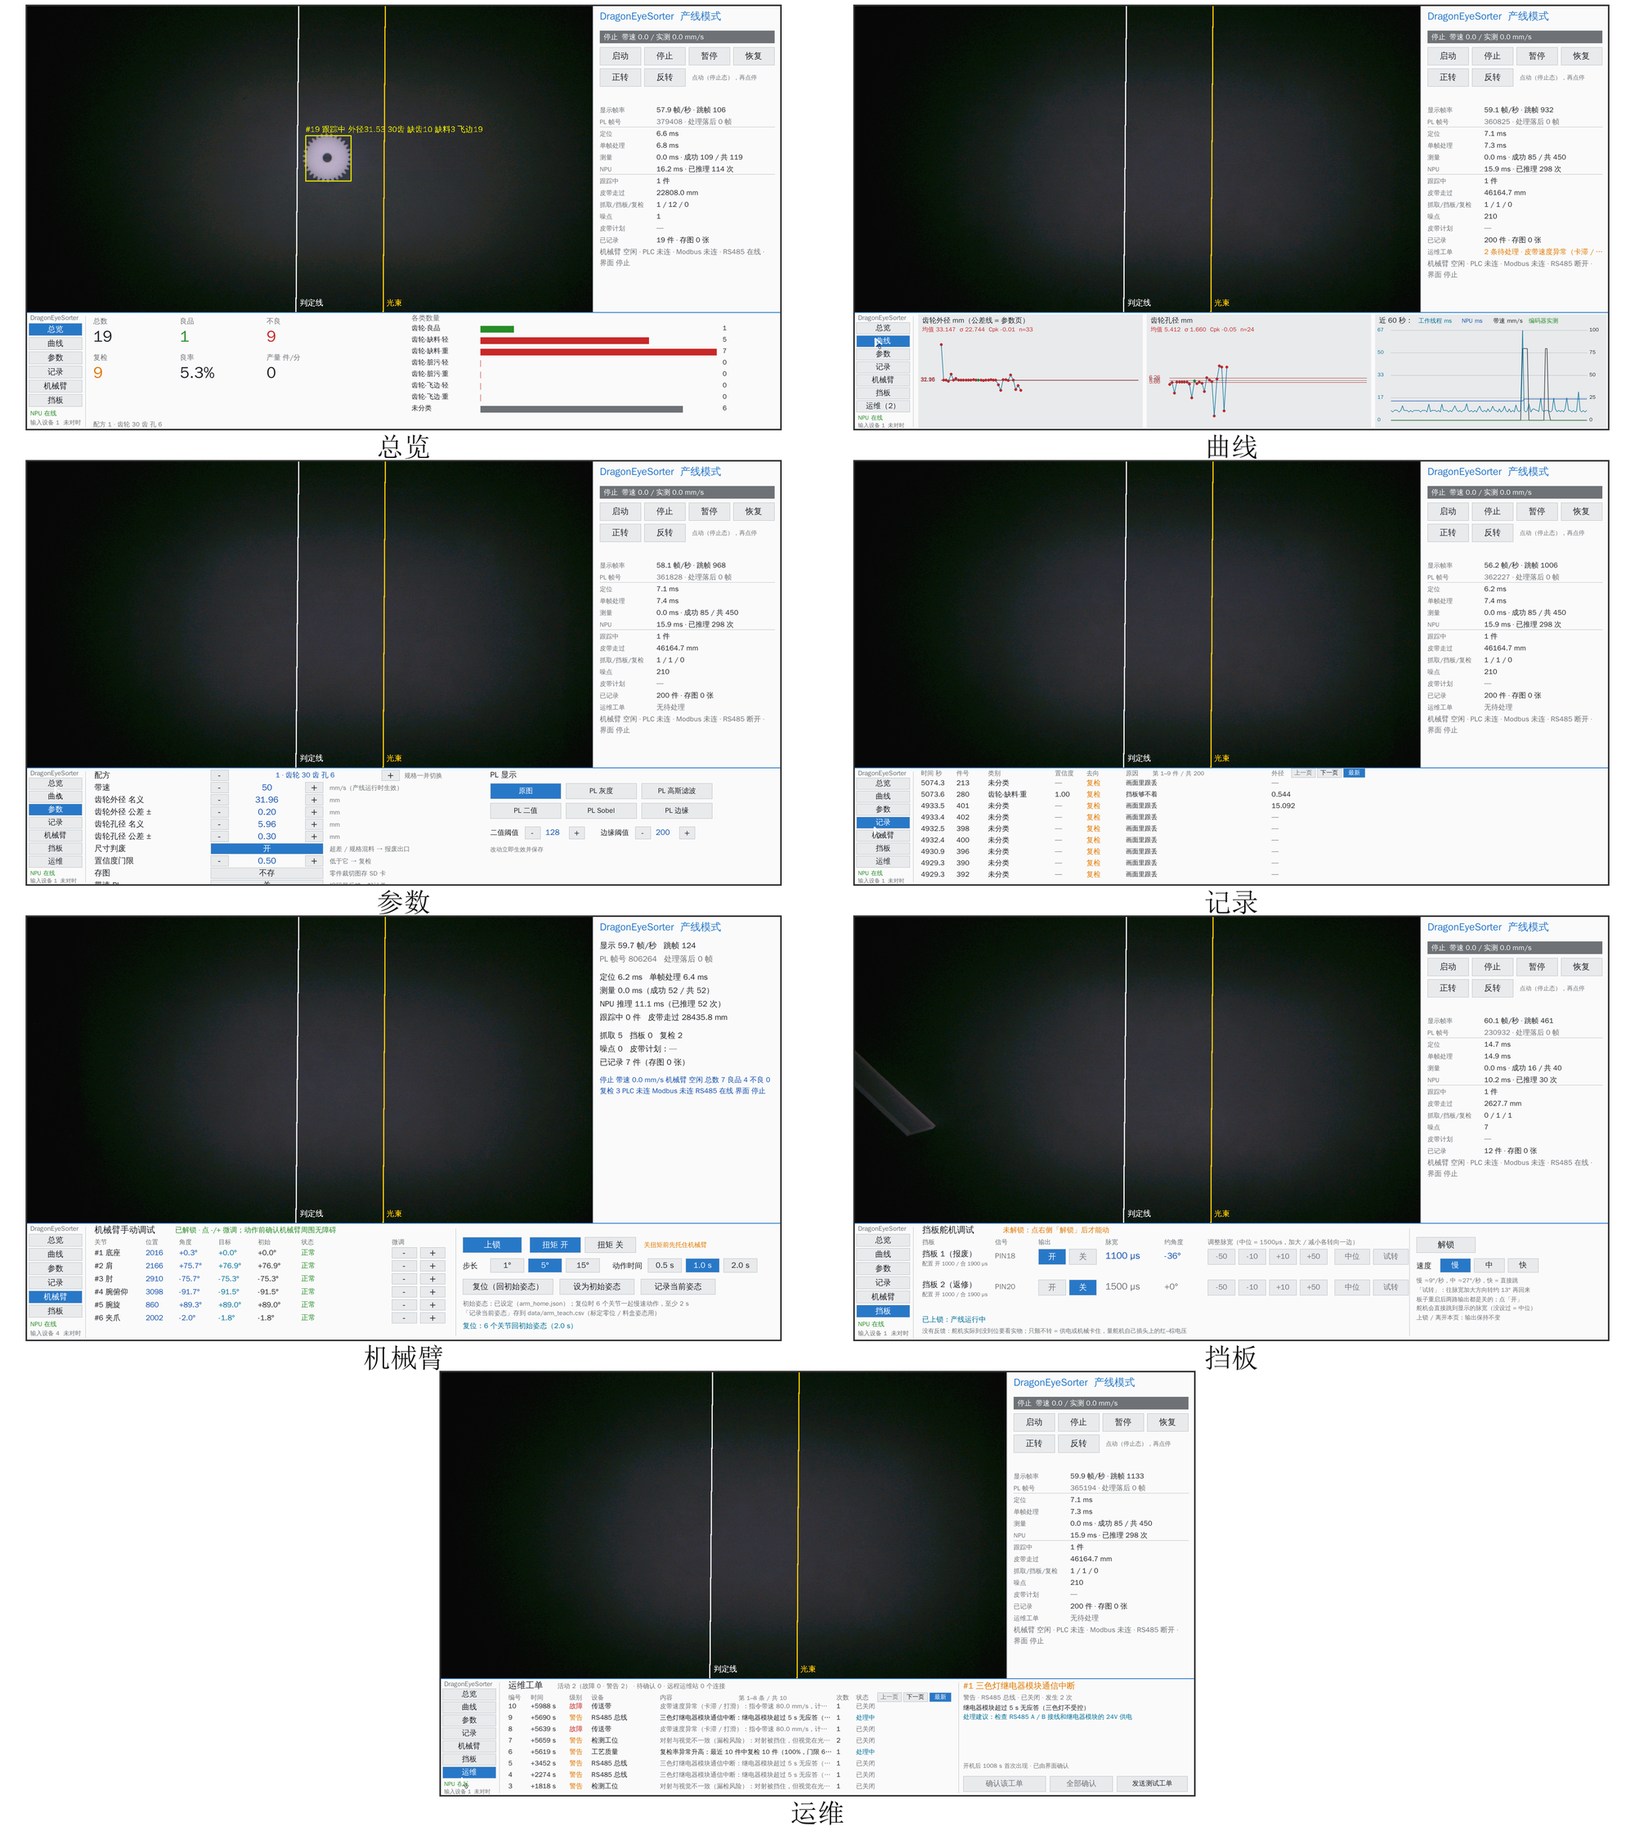
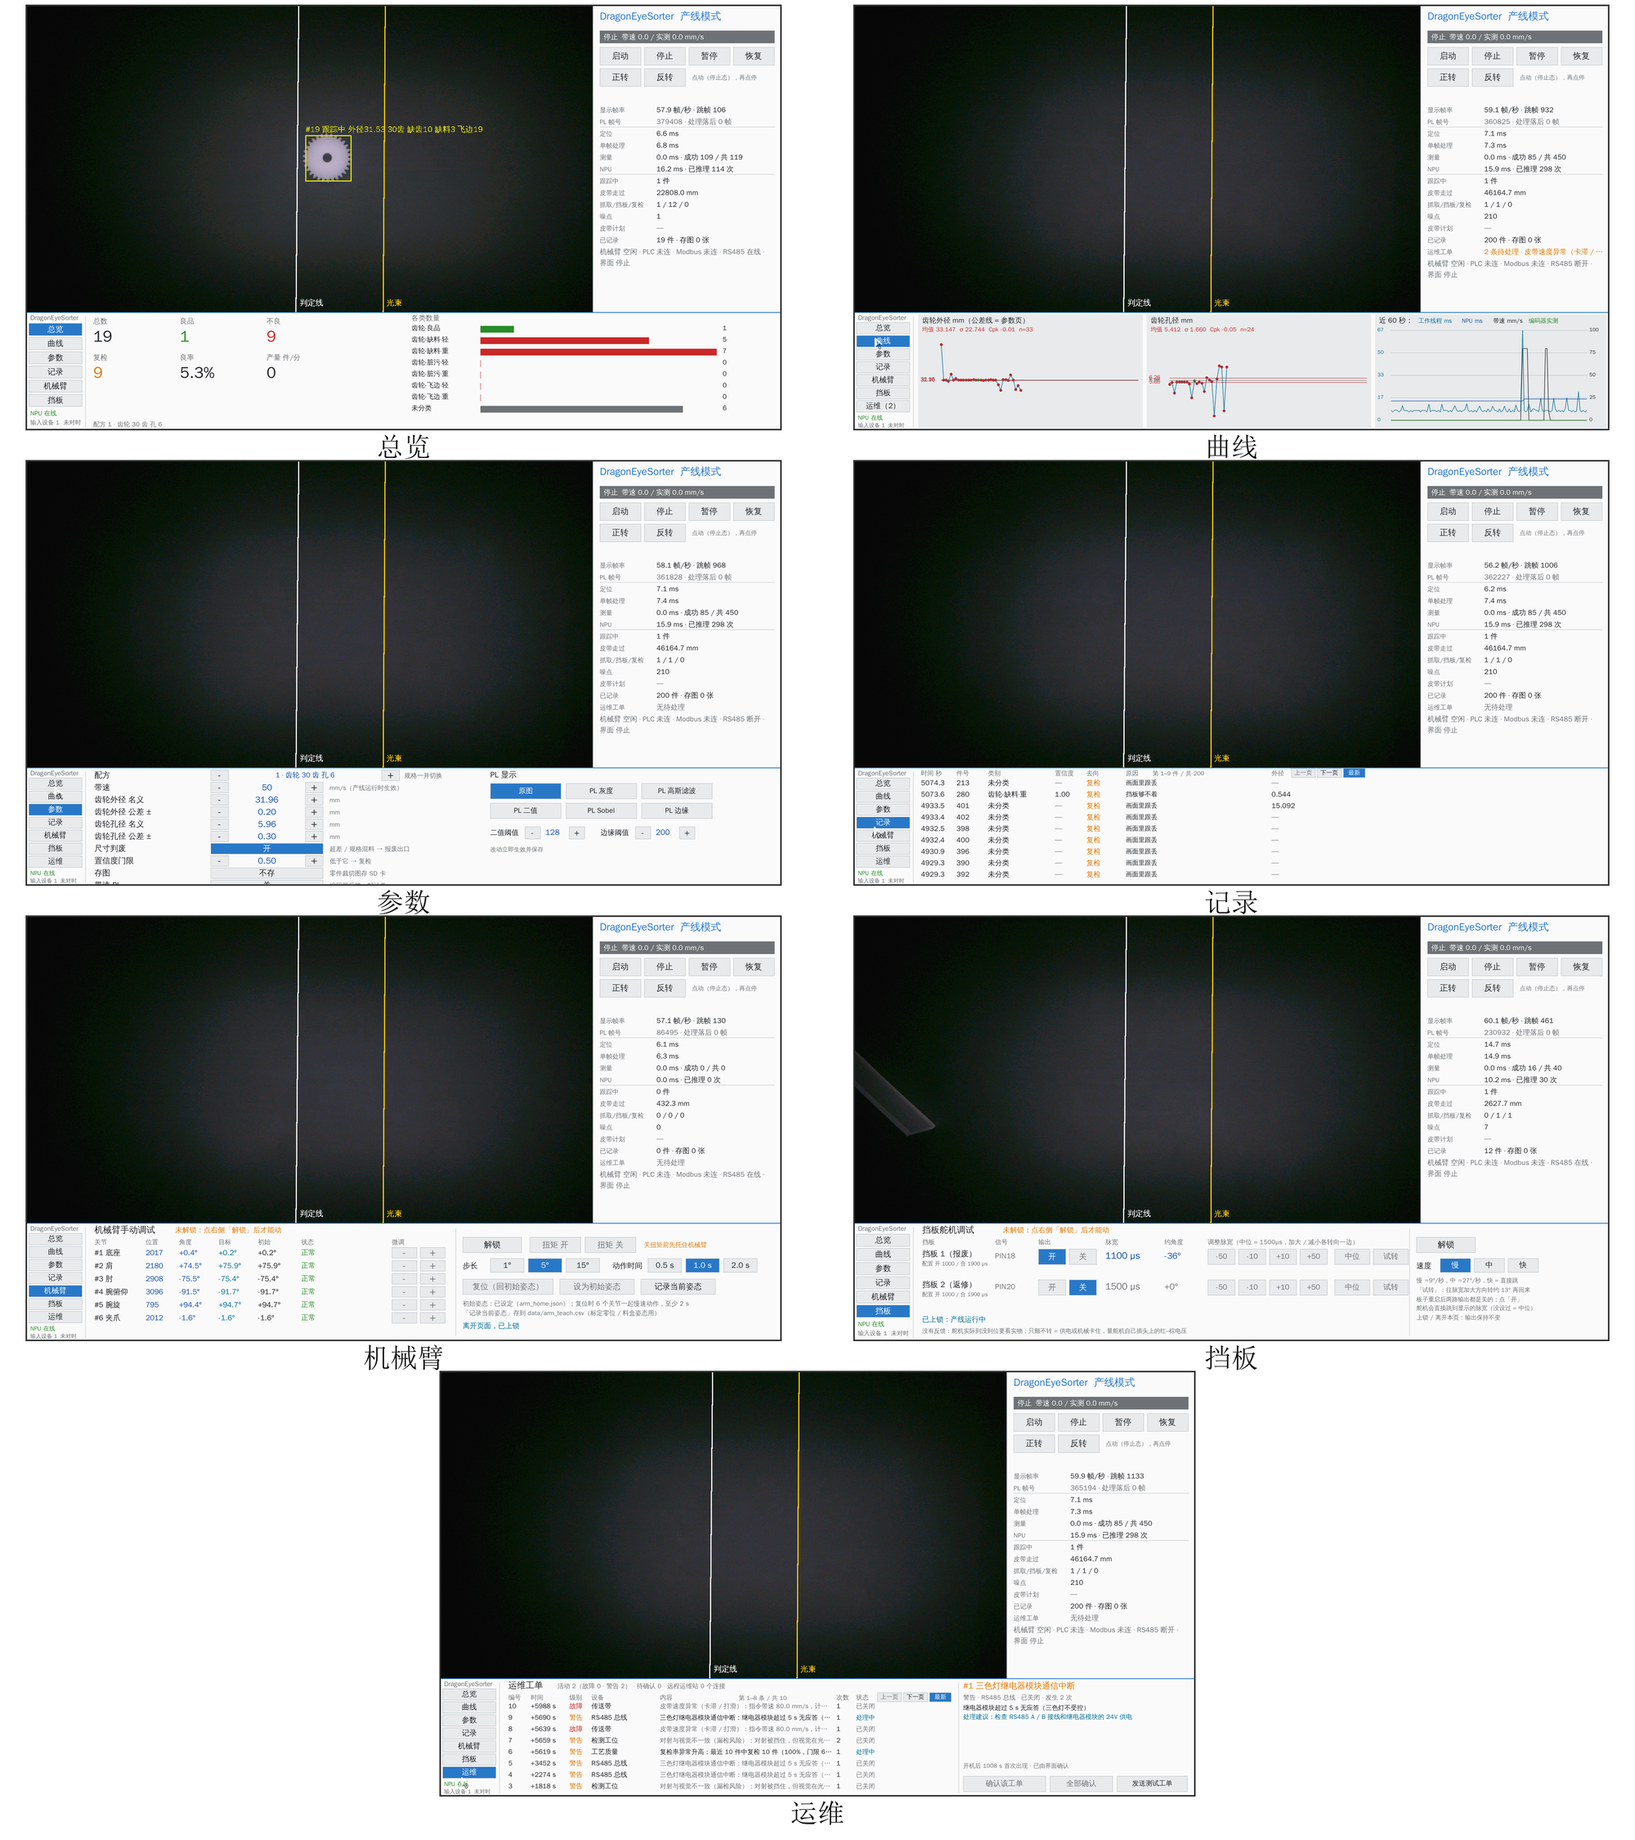
submission: 图 13 换重接线后的电控盘实况照（编号改 1~7，manifest 同步），图 14 机械臂页换板端新截界面；33 页 / 12.20MB，verify --final 0 失败

diff --git a/submission/figures/README.md b/submission/figures/README.md
@@ -36,9 +36,9 @@ python submission/figures/make_placeholders.py           # 单跑报告内占位
 
 ## 报告内占位图（6 张待插入实物图）
 
-**现状（11-02）**：6 张都已换成实物与截图（`placeholder_manifest.json` 里 `replaced: true`，`make_figures.py` 不再重画，只按实际像素登记 meta）：图 9 由 10-30 相机原图按标定裁 56 mm ROI 合成、图 10 用 7 张样件实拍裁方图排 4+3、图 14 由板端 `snap.sh` 截的七页排两列；图 11 为正面与斜 45° 两张整机照上下拼接（2000×2134），图 12 为机械臂近景，图 13 为电控盘俯视。图 11 与图 13 在图内加了圆圈编号与 (a)/(b) 标签，编号含义写在报告图注里（图注不用 ①② 这类圈码，避免回退字体）；重拍或改编号时图注要一起改。报告外挡板 / 测试现场两项仍待拍。下面这段是拍摄与替换规矩，重拍时照用。
+**现状（11-02）**：6 张都已换成实物与截图（`placeholder_manifest.json` 里 `replaced: true`，`make_figures.py` 不再重画，只按实际像素登记 meta）：图 9 由 10-30 相机原图按标定裁 56 mm ROI 合成、图 10 用 7 张样件实拍裁方图排 4+3、图 14 由板端界面 FIFO（`/tmp/des_ui` 的 `snap`）逐页截图排两列（机械臂页 11-02 11:08 重截）；图 11 为正面与斜 45° 两张整机照上下拼接（2000×2134），图 12 为机械臂近景，图 13 为电控盘接线实况（11-02 10:55 重接后重拍，斜俯视）。图 11 与图 13 在图内加了圆圈编号与 (a)/(b) 标签，编号含义写在报告图注里（图注不用 ①② 这类圈码，避免回退字体）；重拍或改编号时图注要一起改。报告外挡板 / 测试现场两项仍待拍。下面这段是拍摄与替换规矩，重拍时照用。
 
-官方模板第三部分要求「图文结合，实物照片为主」，报告保留 6 张实物图占位：**图 9** 整幅视野与单件 ROI 对比（支撑 2.3.2「按零件 ROI 分类」的分辨率论证，硬性④；素材为已有采集图导出，**无需拍摄**）、**图 10** 零件与七类缺陷样件（评分直接证据，对应硬性④ 缺陷分类）、**图 11** 整机实物正面与斜 45°（作品完成度锚点；同一张照片兼决赛展示主图）、**图 12** 六轴机械臂与夹爪（3.2.1 机械成果）、**图 13** 电控盘俯视（3.2.2 电路成果）、**图 14** HDMI 界面七页（评分直接证据，对应硬性② 人机界面）。占位图白底、灰色虚线边框、极浅灰填充，居中三行字——9.5pt 黑体「【待插入实物照片】」、8.5pt 说明（标题 / 机位 / 建议分辨率）、7.5pt 拍摄要求。**图内不写「图 N」编号**（图号由 PDF 里图下方的正式图注承担，避免重复编号）；**图注写最终说明**，替换实物图时正文与图注一字不动。
+官方模板第三部分要求「图文结合，实物照片为主」，报告保留 6 张实物图占位：**图 9** 整幅视野与单件 ROI 对比（支撑 2.3.2「按零件 ROI 分类」的分辨率论证，硬性④；素材为已有采集图导出，**无需拍摄**）、**图 10** 零件与七类缺陷样件（评分直接证据，对应硬性④ 缺陷分类）、**图 11** 整机实物正面与斜 45°（作品完成度锚点；同一张照片兼决赛展示主图）、**图 12** 六轴机械臂与夹爪（3.2.1 机械成果）、**图 13** 电控盘接线实况（3.2.2 电路成果）、**图 14** HDMI 界面七页（评分直接证据，对应硬性② 人机界面）。占位图白底、灰色虚线边框、极浅灰填充，居中三行字——9.5pt 黑体「【待插入实物照片】」、8.5pt 说明（标题 / 机位 / 建议分辨率）、7.5pt 拍摄要求。**图内不写「图 N」编号**（图号由 PDF 里图下方的正式图注承担，避免重复编号）；**图注写最终说明**，替换实物图时正文与图注一字不动。
 
 | 图号 | 文件 | 内容 | 落版（宽 × 高 pt） | 目标像素 | 机位 / 素材 | 章节 |
 |---|---|---|---|---|---|---|
@@ -46,7 +46,7 @@ python submission/figures/make_placeholders.py           # 单跑报告内占位
 | 图 10 | `ph_samples.png` | 零件与七类缺陷样件 | 447.92 × 223.96 | 3200 × 1600 | B 俯拍 | 2.3.2 数据集 |
 | 图 11 | `ph_overview.png` | 整机实物（正面 + 斜 45°，带编号） | 447.92 × 477.93 | 2000 × 2134（322 dpi） | 操作位正面 + A 右前方 45° | 3.1 整体介绍 |
 | 图 12 | `ph_arm.png` | 六轴总线舵机机械臂与夹爪 | 447.92 × 298.61 | 3200 × 2133 | C 机械臂近景 | 3.2.1 机械成果 |
-| 图 13 | `ph_board.png` | 电控盘俯视（带编号） | 447.92 × 298.61 | 2000 × 1333（322 dpi） | B 俯拍 | 3.2.2 电路成果 |
+| 图 13 | `ph_board.png` | 电控盘接线实况（带编号） | 447.92 × 298.61 | 2000 × 1333（322 dpi） | E 斜俯拍 | 3.2.2 电路成果 |
 | 图 14 | `ph_ui.png` | HDMI 操作界面七页 | 447.92 × 503.91（8:9） | 2000 × 2250（322 dpi） | S 采集卡录屏 | 3.2.3 软件成果 |
 
 逐项的机位 / 素材、光线、画面内容与制作要求在 [`placeholder_manifest.json`](placeholder_manifest.json) 的 `camera` / `light` / `scene` / `shoot` 字段；机位代号 A/B/C/D/E/S 与光线参数沿用 [演示视频脚本](../演示视频脚本.md) §3 与 §5。

diff --git a/submission/提交材料清单.md b/submission/提交材料清单.md
@@ -24,7 +24,7 @@
 | # | 材料 | 2026 官方要求 | 内容来源（唯一源） | 生成方式 | 现状 |
 |---|---|---|---|---|---|
 | 0 | 作品名称（官网字段） | 官网现填「基于FPGA的工业智能检测系统」，报告首页标题必须与其一致 | 官网提交页 | 官网填写 | ✅ 已填；技术文档首页已对齐（`verify_report.py` 把关） |
-| 1 | **技术文档**（必交） | PDF ≤50MB，**按官方模板**（五部分：概述 / 系统组成 / 完成情况 / 总结 / 参考文献；首页 = 作品名称；页眉含官方 logo；各节有字数上限）；不得涉及指导老师姓名、学校名称等 | [技术文档](技术文档.md) | `build.ps1`（重画插图 → docx → PDF → 插图高清化） | 🟡 **33 页 / 12.61MB（PDF 13,217,447 字节；实物图 JPEG q88、线稿无损）；`verify_report.py --final` 65 项 63 PASS + 2 SKIP / 0 FAIL（11-02 10:32，交件门禁通过）**；已按官方模板五部分重排（10-31）、按作者规格改楷体版式（11-02：标题四号加粗 2 倍 / 正文小四 1.5 倍 / 图注五号），11-02 内容优化（3.3 按硬性⑥四类指标分表 + 选题方向等级对照表），15 图 / 14 表（11-02 补图 6 系统电气连接），**六张实物图全部替换完毕**（图 9 整幅 vs ROI、图 10 七类样件、图 11 整机正面 + 斜 45°（带编号）、图 12 机械臂、图 13 电控盘（带编号）、图 14 界面七页；manifest 六项 `replaced: true`，实物图 322 dpi）；⚠ 数字待板子上电后回填 |
+| 1 | **技术文档**（必交） | PDF ≤50MB，**按官方模板**（五部分：概述 / 系统组成 / 完成情况 / 总结 / 参考文献；首页 = 作品名称；页眉含官方 logo；各节有字数上限）；不得涉及指导老师姓名、学校名称等 | [技术文档](技术文档.md) | `build.ps1`（重画插图 → docx → PDF → 插图高清化） | 🟡 **33 页 / 12.20MB（PDF 12,792,383 字节；实物图 JPEG q88、线稿无损）；`verify_report.py --final` 65 项 63 PASS + 2 SKIP / 0 FAIL（11-02 11:15，交件门禁通过）**；已按官方模板五部分重排（10-31）、按作者规格改楷体版式（11-02：标题四号加粗 2 倍 / 正文小四 1.5 倍 / 图注五号），11-02 内容优化（3.3 按硬性⑥四类指标分表 + 选题方向等级对照表），15 图 / 14 表（11-02 补图 6 系统电气连接），**六张实物图全部替换完毕**（图 9 整幅 vs ROI、图 10 七类样件、图 11 整机正面 + 斜 45°（带编号）、图 12 机械臂、图 13 电控盘（带编号）、图 14 界面七页；manifest 六项 `replaced: true`，实物图 322 dpi）；⚠ 数字待板子上电后回填 |
 | 2 | **演示视频**（必交） | MP4，编码 AVC（H.264），**≤3 分钟**，**≤300MB**；不得涉及指导老师姓名、学校名称等 | 分镜 / 拍摄 / 导出规格：[演示视频脚本](演示视频脚本.md) | 拍摄 + 剪辑（剪映 / DaVinci） | ⬜ 未拍；脚本按 6~7 分钟设计，需剪 ≤3min 版 |
 | 3 | **上传全部代码**（必交） | **RAR 格式**，**≤200MB** | 本仓库源码 | `pack_code.ps1`（`git archive`） | 🟡 已打一版 zip（`out/DragonEyeSorter_代码_v1.0.zip`，788 条目 / 15.81 MB）；**官方要求 RAR 格式**——需用 WinRAR 命令行把包压成 `.rar`（`rar a -r`），本机装 WinRAR 后执行；代码冻结后再跑一次 |
 | 4 | **参赛作品承诺及使用授权书**（必交） | PDF ≤50MB；官网「下载参赛作品承诺及使用授权书」，签字后上传，承诺作品不涉密、不涉及知识产权、授权组委会宣传 | 官网模板 | 下载 → 填写签字 → 扫描 / 转 PDF | ⬜ 未下载未签（队长在官网提交页下载；签字要求以模板为准） |

diff --git a/docs/log/2026-11-02-报告换电控盘照与机械臂界面.md b/docs/log/2026-11-02-报告换电控盘照与机械臂界面.md
@@ -1,0 +1,27 @@
+# 2026-11-02 报告换两张实拍：图 13 电控盘接线实况、图 14 机械臂界面
+
+> 用户指出两处过期：3.2.2 的电控盘照片是 07:45 那批（重接线之前）拍的；图 14 里「机械臂」那一格还是 10-30 的界面。同一天新拍的 3 张接线照放在工作区根目录（文件名是哈希），挑一张替换图 13；机械臂页从板上现截。
+
+## 1 图 13 电控盘（`ph_board.png`）
+
+- **选片**：3 张里用 `cb1c06ae`（4096×3072，斜俯视，开发板 / TB6600 / 4 路继电器 / 急停 / 6.8 V 与 5 V 降压 / USB-CAN 都在画面内，丝印正立）。另外两张没用：`173d0f85` 是竖构图（相机转了 90°，转正后 1279×1797，落版 3:2 会裁掉两端），`a1cd28b5` 是开发板特写，框不下整盘。
+- **做法**：裁 3:2 → 2000×1333（322 dpi，3.2 节要求的 300 dpi 门限之上），图内画 1~7 圆圈编号与引线，编号含义写进报告图注。脚本 `work/fig_draft/annotate_board.py`（一次性，不入库）。
+- **图注由 8 项改 7 项**：新照片里 24 V 开关电源不在画面（它在盘外侧），所以删掉原来第 8 项「24 V 开关电源（局部）」；`placeholder_manifest.json` 的 `title` / `caption` / `scene` / `resolution` 一并改（标题由「电控盘俯视」改「电控盘接线实况」）。
+- 正文 3.2.2 的读图句「电控盘布置见图 13」不用改；图片 alt 改成「电控盘接线实况」。
+
+## 2 图 14 界面七页（`ph_ui.png`）
+
+- **机械臂页重截**：板子在线，界面 FIFO `/tmp/des_ui` 支持脚本输入——`key 63`（F5 = 机械臂页）→ `snap` → 板端写 `/tmp/des_snap_0.png`（1920×1080），scp 回 `AI协作/截图/ui_1102-1108.png`，再 `key 59` 切回总览；全程只换页面，没动运行状态。
+- **旧图为什么过期**：10-30 那版界面关节名是「#1 原点 / #2 大臂 / …」、只有「角度 / 初始 / 状态」三列；现版改成「#1 底座 / #2 肩 / #3 肘 / #4 腕俯仰 / #5 腕旋 / #6 夹爪」、多了「位置 / 目标」两列与整列微调、按钮改成「解锁 / 扭矩开 / 扭矩关」，还多了「离开页面，已上锁」的提示。
+- **合成**：`work/fig_draft/build_drafts.py` 的 `PAGES` 里机械臂项换成新截图，重排 3200×3600（两列四行、格宽 7.3 cm）后缩到 2000×2250 覆盖 `ph_ui.png`；其余 6 页不动。
+
+## 3 实测结果
+
+- `build.ps1` 全链通过：**33 页 / PDF 12.20 MB（12,792,383 字节）**、DOCX 21.19 MB；段落 191、表 14、图 15。
+- `verify_report.py --final`：**65 项 63 PASS + 2 SKIP / 0 FAIL**（11-02 11:15）。图 13 落版第 26 页（留白 72.7%）、图 14 第 27 页（97.1%），无撑空页、无占位图残留。
+- 三处状态行（[提交材料清单](../../submission/提交材料清单.md)、[submission/README](../../submission/README.md)、[参赛材料骨架](../参赛材料骨架.md)）回填 33 页 / 12.20MB。
+
+## 4 未决
+
+- 图 13 的 1~7 编号是按新照片判读标的，交件前请人再核一遍（尤其 5 / 6 两个降压模块，新旧照片位置一致）。
+- 24 V 开关电源没进画面；要标出来的话得换个机位重拍，或者维持现在的 7 项。

diff --git a/docs/log/README.md b/docs/log/README.md
@@ -29,6 +29,7 @@
 | 技术文档改楷体版式（标题四号加粗 2 倍 / 正文小四 1.5 倍 / 图注五号；stylesWithEffects 遗留 276 行距修复；31 页复检 0 失败） | [2026-11-02](2026-11-02-技术文档楷体版式.md) |
 | 技术文档内容优化（量化一致性等事实纠正、3.3 按硬性⑥四类指标分表 + 等级对照表、补带速自适应、图 10 正面 + 斜 45° 与图 12 电控盘加编号；32 页复检 0 失败） | [2026-11-02](2026-11-02-技术文档内容优化.md) |
 | 报告补系统电气连接图（2.2.3 新增图 6 供电 / 急停 / 引脚三栏；原图 6~14 后移为 7~15；33 页复检 0 失败） | [2026-11-02](2026-11-02-报告补系统电气连接图.md) |
+| 报告换两张实拍（图 13 电控盘改重接线后的实况照、编号改 1~7；图 14 机械臂页用板端 FIFO 截新版界面；33 页复检 0 失败） | [2026-11-02](2026-11-02-报告换电控盘照与机械臂界面.md) |
 | 板端 `/root` 清理（旧二进制 / 测试目录 / 实验原图；7 类原始采集保留） | [2026-10-29](2026-10-29-板端root清理.md) |
 | 报告插图生成物不入库（局部 .gitignore + build.ps1 第 0 步自动重画） | [2026-10-29](2026-10-29-报告插图生成物不入库.md) |
 | 类别表 7 类白名单清理（清空待加类别例外，修检查器自测基线） | [2026-10-29](2026-10-29-类别表7类白名单清理.md) |

diff --git a/docs/参赛材料骨架.md b/docs/参赛材料骨架.md
@@ -25,7 +25,7 @@
 | 拓展 5 SD 卡存储 | 每件记录 + 图片，后台写盘（2.3.2/V3） | ✅ |
 | 拓展 6 工程可靠性 | 2h 连续运行；急停双路（切电 + PL 锁存）；堵转保护（2.2、3.3/V9） | 🟡 软件浸泡已跑 |
 
-## 2 技术文档目录（官方模板五部分；当前 33 页 / 12.61MB；15 图 / 14 表，6 张实物图已全部替换（图 11 为正面 + 斜 45° 两张，图 11 / 13 带编号标注）；以 `build.ps1` + `verify_report.py` 实跑为准）
+## 2 技术文档目录（官方模板五部分；当前 33 页 / 12.20MB；15 图 / 14 表，6 张实物图已全部替换（图 11 为正面 + 斜 45° 两张，图 11 / 13 带编号标注）；以 `build.ps1` + `verify_report.py` 实跑为准）
 
 | 官方模板章节 | 主要素材 |
 |---|---|
